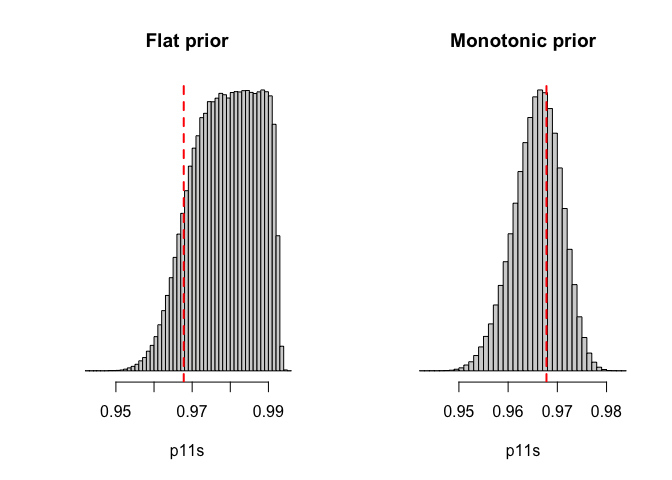
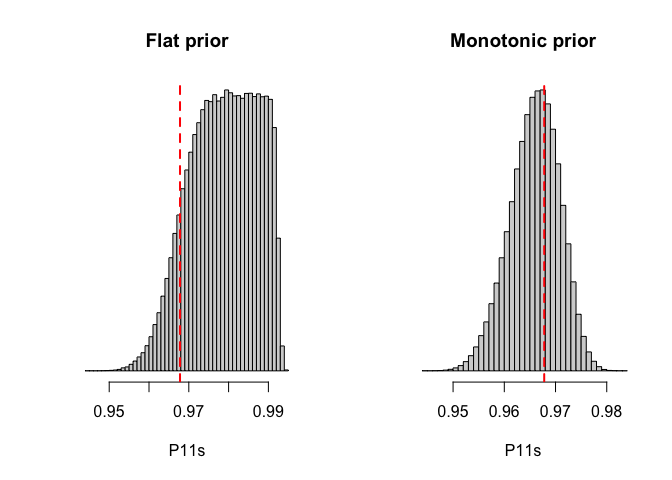
update readme

diff --git a/README.md b/README.md
@@ -84,7 +84,7 @@ hist(AcehWJ_to_Sarlahi, var = "PS01")
 hist(AcehWJ_to_Sarlahi, var = "PS10")
 
 ## hist of P(Y1 = 1) for Sarlahi
-hist(AcehWJ_to_Sarlahi, var = "p11s")
+hist(AcehWJ_to_Sarlahi, var = "P11s")
 abline(v = mark, col = "red", lty = 2, lwd = 2)
 ```
 
